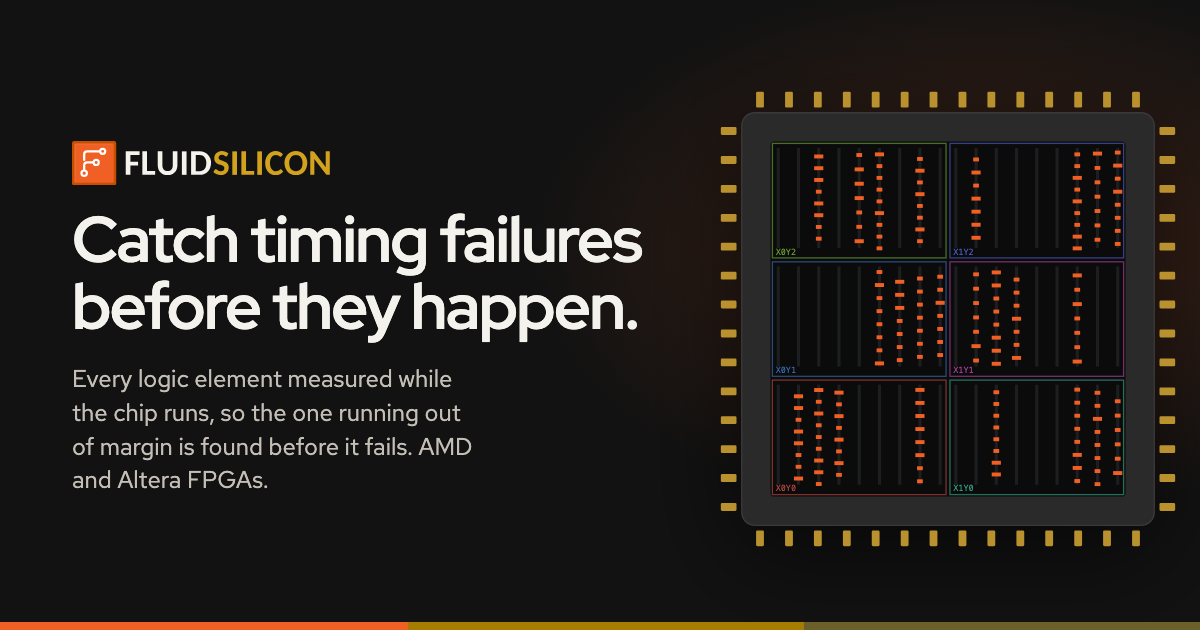
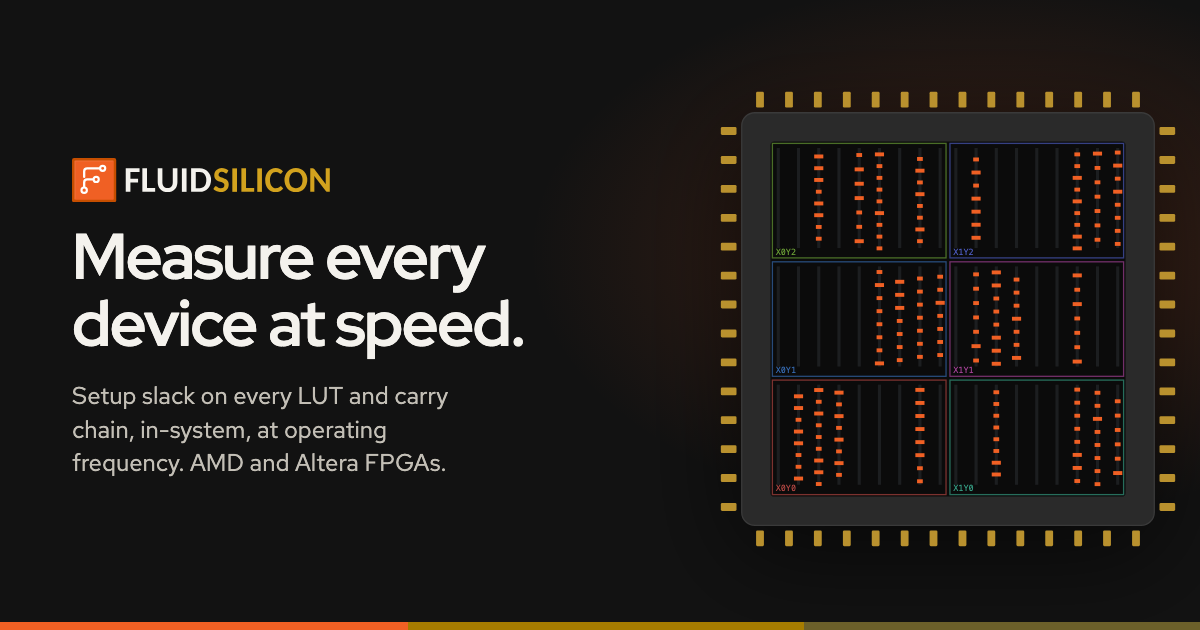
Speak the FPGA community's language: confident, at speed, per device
The copy now reads the way FPGA engineers talk about timing: devices,
sign-off, the worst-case corner, guardband, setup slack, LUTs and carry
chains, in-system, at operating frequency, Vccint, Fmax, speed grade.
Statements are declarative. No claim is stronger than before; the
figures are unchanged.

- Home hero: "Measure every device at speed." The lead states the gap
  (sign-off assumes the slowest silicon at the worst-case corner), the
  field problems, and what is measured (setup slack on every LUT and
  carry chain, in-system, at operating frequency). Badges: devices,
  read-only by default, deployed on-premises.
- Problems: "Timing failures sign-off never sees", with the six cards
  rewritten in those terms (full guardband, setup violations in the
  field, no fault found, speed grade at incoming inspection).
- How it works: "Measure at speed. Act on the result." Measured
  in-system, modeled per device, tuned to measured slack, re-placed
  onto healthy resources. Why now: the gap between sign-off and silicon.
- Device screen: worst slack, worst-slack element, lowest-slack
  elements. Hero tags: measured in-system; per-device result.
- Technology, Solutions, Industries, Company and press boilerplate in
  the same terms; solution one-liners (Vccint and Fmax per device,
  incoming inspection). Call to action: "Measure a device at speed,
  live." Share image regenerated.
- "sign-off" kept on one line in headings.
[…]

Changed region(s): [[0.0617, 0.2111, 0.555, 0.7841]]

diff --git a/src/pages/00-home.html b/src/pages/00-home.html
@@ -1,16 +1,16 @@
 <!--meta
-{"path": "/", "doc_title": "Fluid Silicon | FPGA health monitoring and timing measurement", "og_title": "Fluid Silicon: catch FPGA timing failures before they happen", "description": "Fluid Silicon catches FPGA timing failures before they happen: the timing of every logic element measured while the chip runs, the elements running out of margin found, and when each will fail predicted. AMD and Altera, on your site."}
+{"path": "/", "doc_title": "Fluid Silicon | FPGA health monitoring and timing measurement", "og_title": "Fluid Silicon: measure every FPGA at speed", "description": "In-system timing measurement for FPGAs: setup slack measured on every LUT and carry chain at operating frequency, and the paths losing margin flagged before they fail. AMD and Altera devices, deployed on-premises."}
 -->
 <section class="hero on-dark" aria-labelledby="home-h1">
   <div class="wrap">
     <div class="hero-copy">
-      <h1 id="home-h1">Catch timing failures before they happen.</h1>
-      <p class="lead">Intermittent errors no one can reproduce. Boards that fail years early. Chips run at worst-case voltage because their real margin is unknown. Fluid Silicon measures the timing of every logic element while your design runs, and shows which one is running out of margin and how long it has left.</p>
+      <h1 id="home-h1">Measure every device at speed.</h1>
+      <p class="lead">Sign-off assumes the slowest silicon at the worst-case corner. In the field, devices throw intermittent errors no one can reproduce, fail years early, and run at full guardband because their real margin is unknown. Fluid Silicon measures setup slack on every LUT and carry chain, in-system, at operating frequency, and flags the paths losing margin before they fail.</p>
       <div class="btn-row">
         <a class="btn btn--primary" href="/technology/">How it works {{arrow}}</a>
         <a class="btn btn--ghost" href="/assets/docs/fluid-silicon-technical-brief.pdf">Technical brief (PDF)</a>
       </div>
-      <p class="badge-line"><span>AMD and Altera parts</span><span>No RTL changes</span><span>Read-only to start</span><span>Runs on your site</span></p>
+      <p class="badge-line"><span>AMD and Altera devices</span><span>No RTL changes</span><span>Read-only by default</span><span>Deployed on-premises</span></p>
     </div>
     <div class="hero-visual">
       {{hero_stack:home}}
@@ -21,9 +21,9 @@
 <section class="sec sec--raised" aria-labelledby="home-problems">
   <div class="wrap">
     <div class="sec-head">
-      <p class="kicker">Problems in the field</p>
-      <h2 id="home-problems">Timing problems no factory test catches.</h2>
-      <p>They share one cause: no one knows how much timing margin each chip has left, and it changes with heat and age. Monitoring is read-only; tuning and repair are steps you turn on.</p>
+      <p class="kicker">In the field</p>
+      <h2 id="home-problems">Timing failures <span class="nowrap">sign-off</span> never sees.</h2>
+      <p>One cause: sign-off guardbands every device for the slowest silicon, and the real margin of each device is never measured. That margin varies across the die and shrinks with temperature and age. Monitoring is read-only; tuning and repair are separate steps you enable.</p>
     </div>
     {{problem_grid}}
     <p class="mt-28"><a class="arrow-link" href="/solutions/">Explore all solutions</a></p>
@@ -44,32 +44,32 @@
   <div class="wrap">
     <div class="sec-head">
       <p class="kicker">How it works</p>
-      <h2 id="home-how">From one measurement to every decision.</h2>
-      <p>Today a chip is characterized once, at the factory, against the worst chip that could have been made, and then run that way for life. Fluid Silicon adds a small health layer beside your design so each chip measures its own logic, at speed, for as long as it runs.</p>
+      <h2 id="home-how">Measure at speed. Act on the result.</h2>
+      <p>A device is characterized once, against the slowest silicon at the worst-case corner, and runs on that assumption for life. Fluid Silicon adds a lightweight health layer alongside your design that measures setup slack in-system, at operating frequency, for as long as the device runs.</p>
     </div>
     <div class="grid grid-4">
         <div class="feature">
           {{icon:monitor}}
-          <h3>Measured on the chip</h3>
-          <p>Timing slack on individual LUTs, carry blocks and the links between them, while the design computes. A full sweep takes about a second; each link is resolved to under 20 ps.</p>
+          <h3>Measured in-system</h3>
+          <p>Setup slack on individual LUTs, carry chains and the routing between them, while your design runs. A full sweep takes about a second; each link is resolved to under 20 ps.</p>
         </div>
         <div class="feature">
           {{icon:model}}
-          <h3>Modeled per chip</h3>
-          <p>An aging curve fitted to each chip's own temperature history, and a time-to-threshold for every element on it.</p>
+          <h3>Modeled per device</h3>
+          <p>An aging curve fitted to each device's temperature history, with a time-to-threshold for every element on the die.</p>
         </div>
         <div class="feature">
           {{icon:tune}}
-          <h3>Tuned to what it measured</h3>
-          <p>Voltage and frequency set to what each chip can sustain, in windows you schedule, with every change re-measured.</p>
+          <h3>Tuned to measured slack</h3>
+          <p>Vccint and clock set to the margin each device actually has, in maintenance windows you schedule, re-measured after every change.</p>
         </div>
         <div class="feature">
           {{icon:repair}}
           <h3>Repaired only when needed</h3>
-          <p>Nothing in your design moves until an element degrades toward your threshold. Then only that path moves to a healthy resource, through your change process.</p>
+          <p>Nothing in your design moves until an element degrades toward your threshold. Then only that path is re-placed onto healthy resources, through your change process.</p>
         </div>
     </div>
-    <p class="mt-28"><a class="arrow-link" href="/technology/">See how it works</a> <span class="muted">·</span> <a class="arrow-link" href="/technology/devices/">Device support</a></p>
+    <p class="mt-28"><a class="arrow-link" href="/technology/">How the measurement works</a> <span class="muted">·</span> <a class="arrow-link" href="/technology/devices/">Device support</a></p>
   </div>
 </section>
 
@@ -77,8 +77,8 @@
   <div class="wrap">
     <div class="sec-head">
       <p class="kicker">Why now</p>
-      <h2 id="home-why">The gap between the datasheet and the chip keeps widening.</h2>
-      <p>Setting one margin for the worst chip was the right call when nothing in the field could be measured. Three things have changed.</p>
+      <h2 id="home-why">The gap between <span class="nowrap">sign-off</span> and silicon keeps widening.</h2>
+      <p>Guardbanding every device for the slowest silicon made sense when nothing could be measured in the field. Three things have changed.</p>
     </div>
     {{whynow}}
   </div>
@@ -88,7 +88,7 @@
   <div class="wrap">
     <div class="sec-head">
       <p class="kicker">Where it applies</p>
-      <h2 id="home-ind">Wherever chips run for years and a surprise is expensive.</h2>
+      <h2 id="home-ind">Wherever devices run for years and a timing failure is expensive.</h2>
       <p>Each industry reads the same measurement differently: as watts, as uptime, as a maintenance schedule, as evidence.</p>
     </div>
     {{ind_grid}}
@@ -101,12 +101,12 @@
     <div class="stack">
       <p class="kicker">Where this goes</p>
       <h2 id="home-vision">FPGAs are where we start.</h2>
-      <p class="lead">A chip that reports its own condition is useful wherever silicon has to be trusted. FPGAs are programmable, so the health layer can be added to chips already in service, with no new silicon. That makes them the first step, not the last.</p>
+      <p class="lead">A device that measures its own timing belongs wherever silicon has to be trusted. FPGAs are reprogrammable, so the health layer can be added to devices already in service, with no new silicon. That makes them the first step.</p>
     </div>
     <div class="path">
-      <div><span class="n">1</span><div><h3>Today: FPGAs, read-only</h3><p>Per-element measurement on AMD and Altera parts, with evaluations that start on a few of your boards.</p></div></div>
-      <div><span class="n">2</span><div><h3>Next: the full loop on every chip</h3><p>Each chip monitored, modeled, tuned and, when needed, repaired on its own measurement, wherever it runs: on a bench, in a vehicle, in a cabinet or in a data center.</p></div></div>
-      <div><span class="n">3</span><div><h3>After that: beyond FPGAs</h3><p>The same per-element measurement for other chips that have to run for years, so no system fails because a part ran out of margin unnoticed.</p></div></div>
+      <div><span class="n">1</span><div><h3>Today: FPGAs, read-only</h3><p>Per-element measurement on AMD and Altera devices, with evaluations that start on a few of your boards.</p></div></div>
+      <div><span class="n">2</span><div><h3>Next: the full loop on every device</h3><p>Each device monitored, modeled, tuned and, when needed, repaired on its own measurement: on the bench, in a vehicle, in a cabinet or in a data center.</p></div></div>
+      <div><span class="n">3</span><div><h3>After that: beyond FPGAs</h3><p>The same per-element measurement for other silicon that has to run for years, so no system fails because a part ran out of margin unnoticed.</p></div></div>
     </div>
   </div>
 </section>

diff --git a/src/pages/08c-news.html b/src/pages/08c-news.html
@@ -24,9 +24,9 @@
       <div class="card">
         <p class="tag">Boilerplate</p>
         <h3>About Fluid Silicon</h3>
-        <p>Fluid Silicon builds FPGA health monitoring and timing measurement software. Its platform measures the timing of every logic element on a chip while the chip runs, so the people who operate critical systems find the logic running out of timing margin before it fails and know when each chip will need attention. The platform works today on AMD and Altera FPGAs and grew out of reconfigurable-computing research at the University of Pennsylvania, which awarded founder Nhlanhla Mavuso its 2026 President's Sustainability Prize for the work. Fluid Silicon is based in Philadelphia, PA.</p>
+        <p>Fluid Silicon builds in-system timing measurement for FPGAs. Its platform measures setup slack on every LUT and carry chain at operating frequency while the design runs, so the engineers who operate critical systems find the paths losing margin before they fail and know when each device will need attention. The platform works today on AMD and Altera FPGAs and grew out of reconfigurable-computing research at the University of Pennsylvania, which awarded founder Nhlanhla Mavuso its 2026 President's Sustainability Prize for the work. Fluid Silicon is based in Philadelphia, PA.</p>
         <div class="copy-row"><button type="button" class="btn btn--ghost btn--small" data-copy="#boiler">Copy boilerplate</button></div>
-        <p class="visually-hidden" id="boiler">Fluid Silicon builds FPGA health monitoring and timing measurement software. Its platform measures the timing of every logic element on a chip while the chip runs, so the people who operate critical systems find the logic running out of timing margin before it fails and know when each chip will need attention. The platform works today on AMD and Altera FPGAs and grew out of reconfigurable-computing research at the University of Pennsylvania, which awarded founder Nhlanhla Mavuso its 2026 President's Sustainability Prize for the work. Fluid Silicon is based in Philadelphia, PA.</p>
+        <p class="visually-hidden" id="boiler">Fluid Silicon builds in-system timing measurement for FPGAs. Its platform measures setup slack on every LUT and carry chain at operating frequency while the design runs, so the engineers who operate critical systems find the paths losing margin before they fail and know when each device will need attention. The platform works today on AMD and Altera FPGAs and grew out of reconfigurable-computing research at the University of Pennsylvania, which awarded founder Nhlanhla Mavuso its 2026 President's Sustainability Prize for the work. Fluid Silicon is based in Philadelphia, PA.</p>
       </div>
       <div class="card">
         <p class="tag">Media contact</p>

diff --git a/src/pages/08-company.html b/src/pages/08-company.html
@@ -1,13 +1,13 @@
 <!--meta
-{"path": "/company/", "nav": "company", "doc_title": "About Fluid Silicon: team, Penn research origin, partners | Fluid Silicon", "description": "Fluid Silicon builds FPGA health monitoring software that finds the logic running out of timing margin before it fails. Founded on University of Pennsylvania research, based in Philadelphia. Meet the team."}
+{"path": "/company/", "nav": "company", "doc_title": "About Fluid Silicon: team, Penn research origin, partners | Fluid Silicon", "description": "Fluid Silicon builds in-system timing measurement for FPGAs that finds the paths losing margin before they fail. Founded on University of Pennsylvania research, based in Philadelphia. Meet the team."}
 -->
 <section class="hero on-dark hero--inner" aria-labelledby="co-h1">
   <div class="wrap">
     <div class="hero-copy">
       <nav class="crumbs" aria-label="Breadcrumb"><a href="/">Home</a><span aria-hidden="true">/</span><span>Company</span></nav>
       <p class="kicker">About Fluid Silicon</p>
-      <h1 id="co-h1">A failing chip should never be a surprise.</h1>
-      <p class="lead">We build the measurement that tells the people who run critical systems which chip is running out of timing margin, where on the chip, and how long it has left, so they can act in a window they choose instead of after a failure.</p>
+      <h1 id="co-h1">A timing failure should never be a surprise.</h1>
+      <p class="lead">We build in-system timing measurement for the engineers who run critical FPGA systems: which device is losing margin, where on the die, and how long it has left, so they act in a maintenance window instead of after a failure.</p>
       <div class="btn-row"><a class="btn btn--primary" href="/technology/">Our technology {{arrow}}</a><a class="btn btn--ghost" href="/careers/">Careers</a></div>
     </div>
     <div class="hero-visual">{{illus:hero-co}}</div>

diff --git a/src/pages/01-solutions.html b/src/pages/01-solutions.html
@@ -4,11 +4,11 @@
 <section class="page-hero" aria-labelledby="sol-h1">
   <div class="wrap">
     <nav class="crumbs" aria-label="Breadcrumb"><a href="/">Home</a><span aria-hidden="true">/</span><span>Solutions</span></nav>
-    <h1 id="sol-h1">Put each chip's own measurement to work.</h1>
-    <p class="lead">Every solution reads the same measurement: the timing slack of every logic element on the chip, at speed, while it runs.</p>
+    <h1 id="sol-h1">Put each device's measured slack to work.</h1>
+    <p class="lead">Every solution starts from the same measurement: setup slack on every LUT and carry chain, in-system, at operating frequency.</p>
     <h2 class="visually-hidden">What every solution shares</h2>
     <div class="grid grid-3 mt-28">
-      <div class="feature">{{icon:monitor}}<h3>Per-element data</h3><p>LUTs, carry blocks and the links between them, resolved to under 20 ps, swept in about a second.</p></div>
+      <div class="feature">{{icon:monitor}}<h3>Per-element data</h3><p>LUTs, carry chains and the routing between them, resolved to under 20 ps, swept in about a second.</p></div>
       <div class="feature">{{icon:layers}}<h3>One language</h3><p>The same health metric, telemetry schema and thresholds on AMD and Altera parts.</p></div>
       <div class="feature">{{icon:clock}}<h3>Before, during and after service</h3><p>Characterization at incoming, monitoring in production, characterization again at exit.</p></div>
     </div>

diff --git a/src/pages/02-technology.html b/src/pages/02-technology.html
@@ -6,8 +6,8 @@
     <div class="hero-copy">
       <nav class="crumbs" aria-label="Breadcrumb"><a href="/">Home</a><span aria-hidden="true">/</span><span>Technology</span></nav>
       <p class="kicker">Technology</p>
-      <h1 id="tech-h1">A chip that measures its own logic.</h1>
-      <p class="lead">A small health layer beside your design measures the timing of every logic element, at operating speed, in production. One measurement, and everything else follows from it.</p>
+      <h1 id="tech-h1">A device that measures its own timing.</h1>
+      <p class="lead">A lightweight health layer alongside your design measures setup slack on every LUT and carry chain, at operating frequency, in production. Every decision starts from that measurement.</p>
       <div class="btn-row"><a class="btn btn--primary" href="/demo/">Request a demo {{arrow}}</a><a class="btn btn--ghost" href="/assets/docs/fluid-silicon-technical-brief.pdf">Technical brief (PDF)</a></div>
     </div>
     <div class="hero-visual">{{fabric:fabric-tech}}</div>

diff --git a/src/pages/01b-industries.html b/src/pages/01b-industries.html
@@ -5,7 +5,7 @@
   <div class="wrap">
     <nav class="crumbs" aria-label="Breadcrumb"><a href="/">Home</a><span aria-hidden="true">/</span><span>Industries</span></nav>
     <h1 id="ind-h1">One measurement, read differently in every industry.</h1>
-    <p class="lead">Fluid Silicon matters most where a chip has to run for years, often out of reach, and where a surprise failure is expensive. Each industry reads the same measurement as something different: watts, uptime, a maintenance schedule, evidence.</p>
+    <p class="lead">Fluid Silicon matters most where a device has to run for years, often out of reach, and where a timing failure is expensive. Each industry reads the same measurement as something different: watts, uptime, a maintenance schedule, evidence.</p>
   </div>
 </section>
 

diff --git a/content.py b/content.py
@@ -43,8 +43,8 @@ NEWS = [
 # ------------------------------------------------------------------ solutions (by topic)
 SOLUTIONS = [
     {
-        "slug": "power-performance", "problem": ('Every chip runs at worst-case voltage', 'Voltage and clock are set for the slowest part that could have been made, so most chips burn power and leave speed unused. Set each one to the margin it measures.'), "name": "Power & Performance", "icon": "power",
-        "short": "Voltage and frequency set by measurement, per chip.",
+        "slug": "power-performance", "problem": ('Every device runs at full guardband', 'Vccint and clock are set for the slowest silicon at the worst-case corner, so most devices burn power and leave Fmax on the table. Set each device to the margin it actually has.'), "name": "Power & Performance", "icon": "power",
+        "short": "Vccint and Fmax set per device from measured slack.",
         "lead": "Timing margins are set once, for the slowest chip at the hottest corner, because that is the only chip a vendor can guarantee. Fluid Silicon measures the margin each of your chips has and converts the difference into lower power and higher clocks, with the margin you specify kept in place.",
         "impact": [("30–54%", "timing margin carried today for the worst-case corner*"),
                    ("< 20 ps", "per-link precision; the margin you keep covers measurement error plus drift"),
@@ -103,8 +103,8 @@ SOLUTIONS = [
         ],
     },
     {
-        "slug": "reliability-availability-serviceability", "problem": ('Failures arrive without warning', 'A path that passed qualification slows with heat and age until it fails in service. A time-to-threshold per element puts the repair in a window you choose.'), "name": "Reliability, Availability, Serviceability", "icon": "shield",
-        "short": "See failure coming, and fix it in a window you choose.",
+        "slug": "reliability-availability-serviceability", "problem": ('Paths fail in service without warning', 'A path that closed timing at sign-off slows with temperature and aging until it violates setup in the field. A time-to-threshold per element schedules the fix before it fails.'), "name": "Reliability, Availability, Serviceability", "icon": "shield",
+        "short": "Predict timing failures and fix them in a window you choose.",
         "lead": "A card that fails without warning takes capacity with it and sends errors downstream. Fluid Silicon watches the timing health of every logic element, predicts when each card will cross your threshold, and, only where an element is degrading, repairs it in a window you choose.",
         "impact": [("1 s", "to sweep every logic element while the design runs"),
                    ("< 1%", "of LUTs, and under 5% of flip-flops, on a production shell"),
@@ -162,7 +162,7 @@ SOLUTIONS = [
         ],
     },
     {
-        "slug": "failure-prediction-diagnostics", "problem": ('Errors no one can reproduce', 'Intermittent faults pass every bench test and end as no fault found. Measured margin per logic element gives each error an address on the chip.'), "name": "Failure Prediction & Diagnostics", "icon": "search",
+        "slug": "failure-prediction-diagnostics", "problem": ('Intermittent errors that never reproduce', 'Errors that disappear on the bench close as no fault found. Measured slack per LUT and carry chain gives every error a location on the die.'), "name": "Failure Prediction & Diagnostics", "icon": "search",
         "short": "Give every error an address, a history and a forecast.",
         "lead": "When a card fails today, nobody can say which logic caused it. Fluid Silicon measures every element, so a fault has an address, a history and a forecast.",
         "impact": [("< 20 ps", "per-link measurement precision"),
@@ -219,8 +219,8 @@ SOLUTIONS = [
         ],
     },
     {
-        "slug": "card-qualification", "problem": ('New boards of unknown margin', 'Boards with the same part number arrive with different timing margin, and the weak ones ship with the rest. Measure each one before it enters service.'), "name": "Card Qualification", "icon": "check",
-        "short": "Know what each card can do before it enters service.",
+        "slug": "card-qualification", "problem": ('Incoming boards of unknown margin', 'Same part number, same speed grade, different silicon. Measure every board at incoming inspection and know which ones sit near their timing limit.'), "name": "Card Qualification", "icon": "check",
+        "short": "Measure every board's margin at incoming inspection.",
         "lead": "Two cards with the same part number are not the same card. Fluid Silicon characterizes every LUT and carry block at speed before a card enters service: what it can sustain and where it is weak.",
         "impact": [("1 s", "to characterize every logic element of a card"),
                    ("> 20%", "random variation at 16, 14 and 7 nm, on top of systematic variation across the die"),
@@ -276,8 +276,8 @@ SOLUTIONS = [
         ],
     },
     {
-        "slug": "lifecycle-second-life", "problem": ('Boards retired on age, not condition', 'Healthy boards are pulled on a schedule while marginal ones stay in. Keep each board on its measured condition and retire the rest on evidence.'), "name": "Lifecycle & Second Life", "icon": "clock",
-        "short": "Keep healthy cards longer. Retire the rest on evidence.",
+        "slug": "lifecycle-second-life", "problem": ('Boards retired on age, not condition', 'Healthy boards come out on a schedule while marginal ones stay in. Keep each board in service on its measured slack and retire the rest on evidence.'), "name": "Lifecycle & Second Life", "icon": "clock",
+        "short": "Keep healthy boards in service. Retire the rest on evidence.",
         "lead": "Cards run six years and longer, past what vendors planned for. Fluid Silicon shows which cards can stay, when the rest will need attention, and what a card leaving service is worth.",
         "impact": [("6+ years", "cards now stay in production"),
                    ("5", "board generations one operator keeps in deployment at once (Rydberg et al., FPGA 2026)"),
@@ -333,7 +333,7 @@ SOLUTIONS = [
         ],
     },
     {
-        "slug": "fleet-operations", "problem": ('No common measure across mixed hardware', 'Different vendors, nodes and board generations report health differently, if at all. One metric works across all of them.'), "name": "Fleet Deployment & Operations", "icon": "rack",
+        "slug": "fleet-operations", "problem": ('No common health metric across platforms', 'AMD and Altera devices across several nodes and board generations report health differently, if at all. One metric covers all of them: measured slack as a share of the clock period.'), "name": "Fleet Deployment & Operations", "icon": "rack",
         "short": "One health metric across every vendor, node and board generation.",
         "lead": "Mixed vendors, mixed nodes, several board generations and strict change control. Fluid Silicon gives every card the same health metric, the same telemetry and the same rules for change.",
         "impact": [("2", "vendors on one platform: AMD and Altera"),
@@ -545,9 +545,9 @@ PRIZE_QUOTE = ("Fluid Silicon's adaptive approach to chip performance exemplifie
 
 # ------------------------------------------------------------------ why now (home page; figures from the margin and aging posts)
 WHYNOW = [
-    ("> 20%", "Variation is now a first-order constraint", "At 16, 14 and 7 nm, random variation alone exceeds 20%, on top of systematic variation across the die. Two chips with the same part number are less alike with every node.", "/blog/the-fpga-margin-problem/"),
-    ("6+ years", "Chips outlive their timing models", "Boards stay in service for six years and more, and a chip in a hot enclosure ages faster than the same part in a cool one. The timing model is set once; the silicon keeps changing.", "/blog/aging-is-measurable/"),
-    ("Per chip", "A chip can now report its own margin", "FPGAs can be reprogrammed after they ship, so a health layer can be added to chips already in service, with no new silicon. Each chip's margin can be measured instead of assumed from the worst one.", "/technology/"),
+    ("> 20%", "Variation is a first-order constraint", "At 16, 14 and 7 nm, random variation alone exceeds 20%, on top of systematic variation across the die. Two devices with the same part number and speed grade are less alike with every node.", "/blog/the-fpga-margin-problem/"),
+    ("6+ years", "Devices outlive their timing models", "Boards stay in service for six years and more, and a device in a hot enclosure ages faster than the same part in a cool one. Sign-off happens once; the silicon keeps changing.", "/blog/aging-is-measurable/"),
+    ("Per device", "In-system measurement is now practical", "FPGAs are reprogrammable after they ship, so a health layer can be added to devices already in service, with no new silicon. Each device's margin is measured instead of assumed from the slowest one.", "/technology/"),
 ]
 
 # ------------------------------------------------------------------ culture (careers page)

diff --git a/build.py b/build.py
@@ -185,8 +185,8 @@ _CTA_N = 0
 _CAP_N = 0
 
 
-def cta_band(title="See per-element timing on a supported device.",
-             text="A 30-minute session: live measurements on a supported device, and what an evaluation on your cards involves.",
+def cta_band(title="Measure a device at speed, live.",
+             text="A 30-minute session: in-system slack measurements on a supported AMD or Altera device, and what an evaluation on your boards involves.",
              brief=True):
     b = ('<a class="btn btn--ghost" href="/assets/docs/fluid-silicon-technical-brief.pdf">Technical brief (PDF)</a>' if brief else "")
     global _CTA_N
@@ -280,18 +280,18 @@ def mock(kind, light=False):
         hm = slack_map("devmap")
         sp = S.spark(S.series(11, 30, 14.6, -0.21, 0.18), 300, 56)
         main = (f'<div class="mock-main"><div class="mock-head"><strong>Chip B2-04 · XCVU9P</strong><span>AMD Virtex UltraScale+ · 16 nm · measured 2 min ago</span></div>'
-                f'<div class="mock-tiles"><div><small>Median slack</small><b>33.7%</b></div><div><small>Weakest element</small><b class="red">8.2%</b></div><div><small>Time to threshold</small><b class="red">1.4 yrs</b></div><div><small>Clock</small><b>250 MHz</b></div></div>'
-                f'<div class="mock-two"><div class="mock-panel"><div class="ph"><strong>Weakest element</strong><span>X84Y212 · C6LUT</span></div>{sp}</div>'
+                f'<div class="mock-tiles"><div><small>Median slack</small><b>33.7%</b></div><div><small>Worst slack</small><b class="red">8.2%</b></div><div><small>Time to threshold</small><b class="red">1.4 yrs</b></div><div><small>Clock</small><b>250 MHz</b></div></div>'
+                f'<div class="mock-two"><div class="mock-panel"><div class="ph"><strong>Worst-slack element</strong><span>X84Y212 · C6LUT</span></div>{sp}</div>'
                 f'<div class="mock-panel"><div class="ph"><strong>Slack across the chip</strong><span>lowest per region</span></div>{hm}</div></div>'
-                f'<div class="mock-panel mock-table-wrap"><div class="ph"><strong>Weakest elements</strong><span>the three lowest</span></div>'
+                f'<div class="mock-panel mock-table-wrap"><div class="ph"><strong>Lowest-slack elements</strong><span>the three lowest</span></div>'
                 f'<table class="mock-table"><thead><tr><th>Site</th><th>Element</th><th>Slack</th><th>Time to threshold</th><th>Status</th></tr></thead><tbody>'
                 f'<tr><td>X84Y212</td><td>C6LUT</td><td>8.2%</td><td>1.4 yrs</td><td><span class="st st-act">Action</span></td></tr>'
                 f'<tr><td>X85Y212</td><td>Carry</td><td>9.6%</td><td>2.2 yrs</td><td><span class="st st-watch">Watch</span></td></tr>'
                 f'<tr><td>X40Y96</td><td>B5LUT</td><td>11.9%</td><td>2.8 yrs</td><td><span class="st st-watch">Watch</span></td></tr>'
                 f'</tbody></table></div></div>')
         body = f'<div class="mock-body">{_mock_nav("Chip", DEVICE_NAV)}{main}</div>'
-        label = ("Chip screen for one device: median slack 33.7%, weakest element 8.2% at site X84Y212, time to threshold 1.4 years, clock 250 MHz, "
-                 "with a slack map across the chip, the weakest element's history and a table of its three weakest elements.")
+        label = ("Device screen: median slack 33.7%, worst slack 8.2% at site X84Y212, time to threshold 1.4 years, clock 250 MHz, "
+                 "with a slack map across the die, the worst-slack element's history and a table of the three lowest-slack elements.")
     elif kind == "fleet":
         sp = S.spark(S.series(5, 30, 37.2, 0.04, 0.35), 300, 64)
         br = S.bars([2, 3, 6, 11, 19, 31, 46, 58, 64, 52, 38, 21, 9, 4], 300, 64, low=2)
@@ -375,9 +375,8 @@ def eeo():
 
 
 def about_blurb():
-    return ('<p>Fluid Silicon helps the people who run critical systems catch timing failures before they happen. '
-            'The platform measures timing on every logic element of an FPGA while it runs, finds the elements running out of margin '
-            'and predicts when each chip will need attention.</p>')
+    return ('<p>Fluid Silicon builds in-system timing measurement for FPGAs. Its health layer measures setup slack on every LUT and carry chain '
+            'at operating frequency while the design runs, flags the paths losing margin and predicts when each device will need attention.</p>')
 
 
 def cite(key):
@@ -451,8 +450,8 @@ def hero_stack(uid="hero"):
     # (1200 to 1600 px wide, where the overlay is drawn) and the overlay is hidden below that
     link = ('<svg class="link" viewBox="0 0 700 540" preserveAspectRatio="none" aria-hidden="true">'
             '<path d="M282 303 C 370 262, 520 268, 606 307"/><circle cx="282" cy="303" r="4.5"/><circle cx="606" cy="307" r="3"/></svg>')
-    tags = ('<div class="tag tag--chip"><span class="dot"></span>Measured on the chip<br><small>every logic element, at speed</small></div>'
-            '<div class="tag tag--device"><span class="dot dot--gold"></span>Known for this chip<br><small>example: weakest element 8.2%, at X84Y212</small></div>')
+    tags = ('<div class="tag tag--chip"><span class="dot"></span>Measured in-system<br><small>every LUT and carry chain, at speed</small></div>'
+            '<div class="tag tag--device"><span class="dot dot--gold"></span>Per-device result<br><small>example: worst slack 8.2%, at X84Y212</small></div>')
     return (f'<figure class="figure hero-figure"><div class="hero-stack">{mock("device")}<div class="hero-chip">{fabric_svg(uid + "-fab")}</div>{link}{tags}</div>'
             f'<figcaption class="mock-caption">Illustrative screen with example data.</figcaption></figure>')
 
@@ -1154,7 +1153,7 @@ def head_html(meta):
 <meta property="og:image" content="{SITE_URL}/assets/img/og-image.png">
 <meta property="og:image:width" content="1200">
 <meta property="og:image:height" content="630">
-<meta property="og:image:alt" content="Fluid Silicon: catch timing failures before they happen.">
+<meta property="og:image:alt" content="Fluid Silicon: measure every device at speed.">
 <meta name="twitter:card" content="summary_large_image">
 <link rel="icon" href="/favicon.ico" sizes="32x32">
 <link rel="icon" href="/assets/img/mark.svg" type="image/svg+xml">

diff --git a/tools_assets.py b/tools_assets.py
@@ -70,8 +70,8 @@ h1 {{ margin: 0; font: 650 64px/1.04 "Red Hat Display", sans-serif; letter-spaci
 .bar {{ position: absolute; left: 0; right: 0; bottom: 0; height: 8px; background: linear-gradient(90deg, #f06024 0 34%, #a67c00 34% 67%, #6c602a 67%); }}
 </style></head><body><div class="og">
 <div class="left">{logo}
-<h1>Catch timing failures before they happen.</h1>
-<p class="sub">Every logic element measured while the chip runs, so the one running out of margin is found before it fails. AMD and Altera FPGAs.</p></div>
+<h1>Measure every device at speed.</h1>
+<p class="sub">Setup slack on every LUT and carry chain, in-system, at operating frequency. AMD and Altera FPGAs.</p></div>
 <div class="right">{chip}</div><div class="bar"></div></div></body></html>'''
 
 
